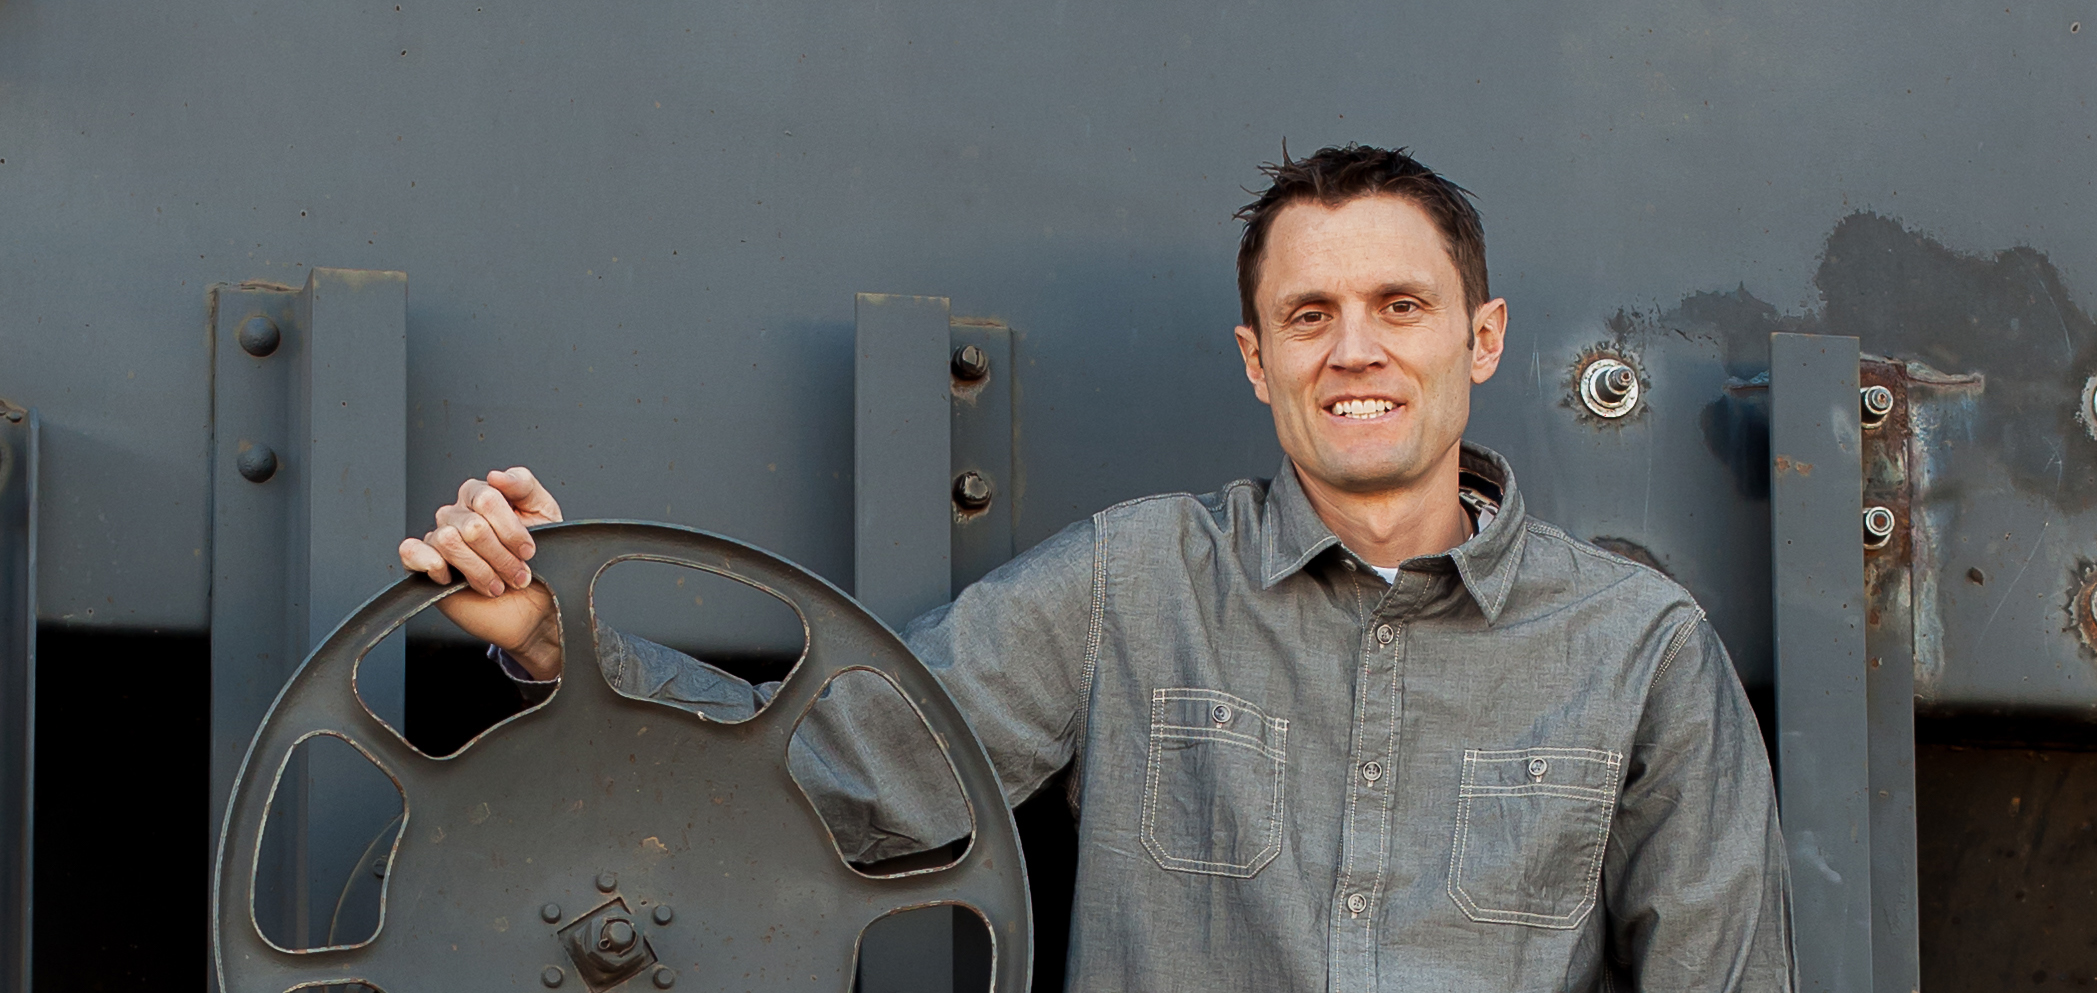
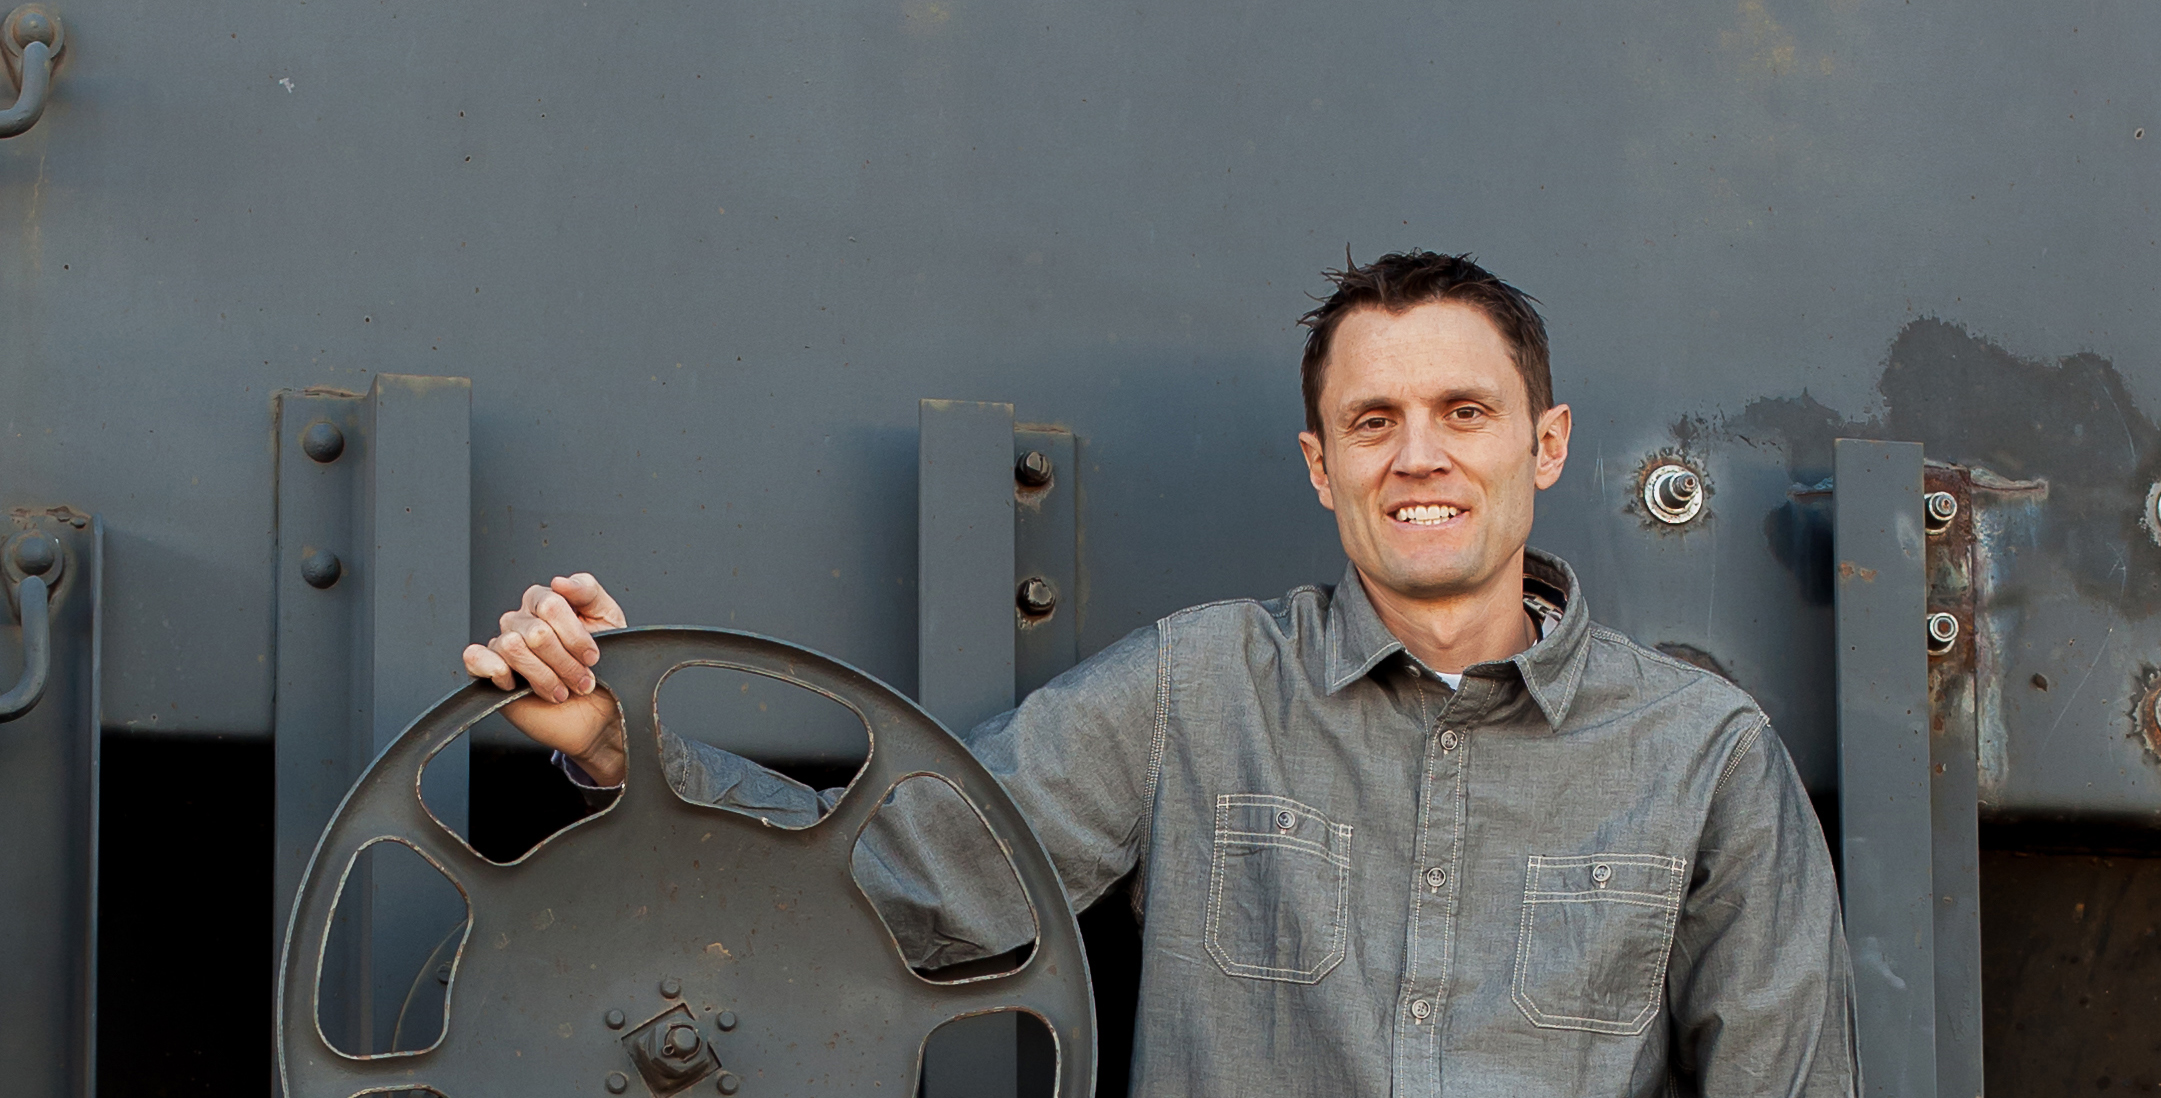
MIKE

diff --git a/assets/css/main.css b/assets/css/main.css
@@ -141,7 +141,7 @@ body {
   
   /* Header Wrap */
   #headerwrap {
-      background: url(../images/railyardlj.jpg) no-repeat center top;
+      background: url(../images/railyardlj.jpg) no-repeat center;
       margin-top: 60px;
       padding-top: 88px;
       text-align:center;

diff --git a/assets/css/bootstrap.css b/assets/css/bootstrap.css
@@ -511,6 +511,7 @@ h2,
 h3,
 .h3 {
   font-size: 24px;
+  width: 65%;
 }
 
 h4,
